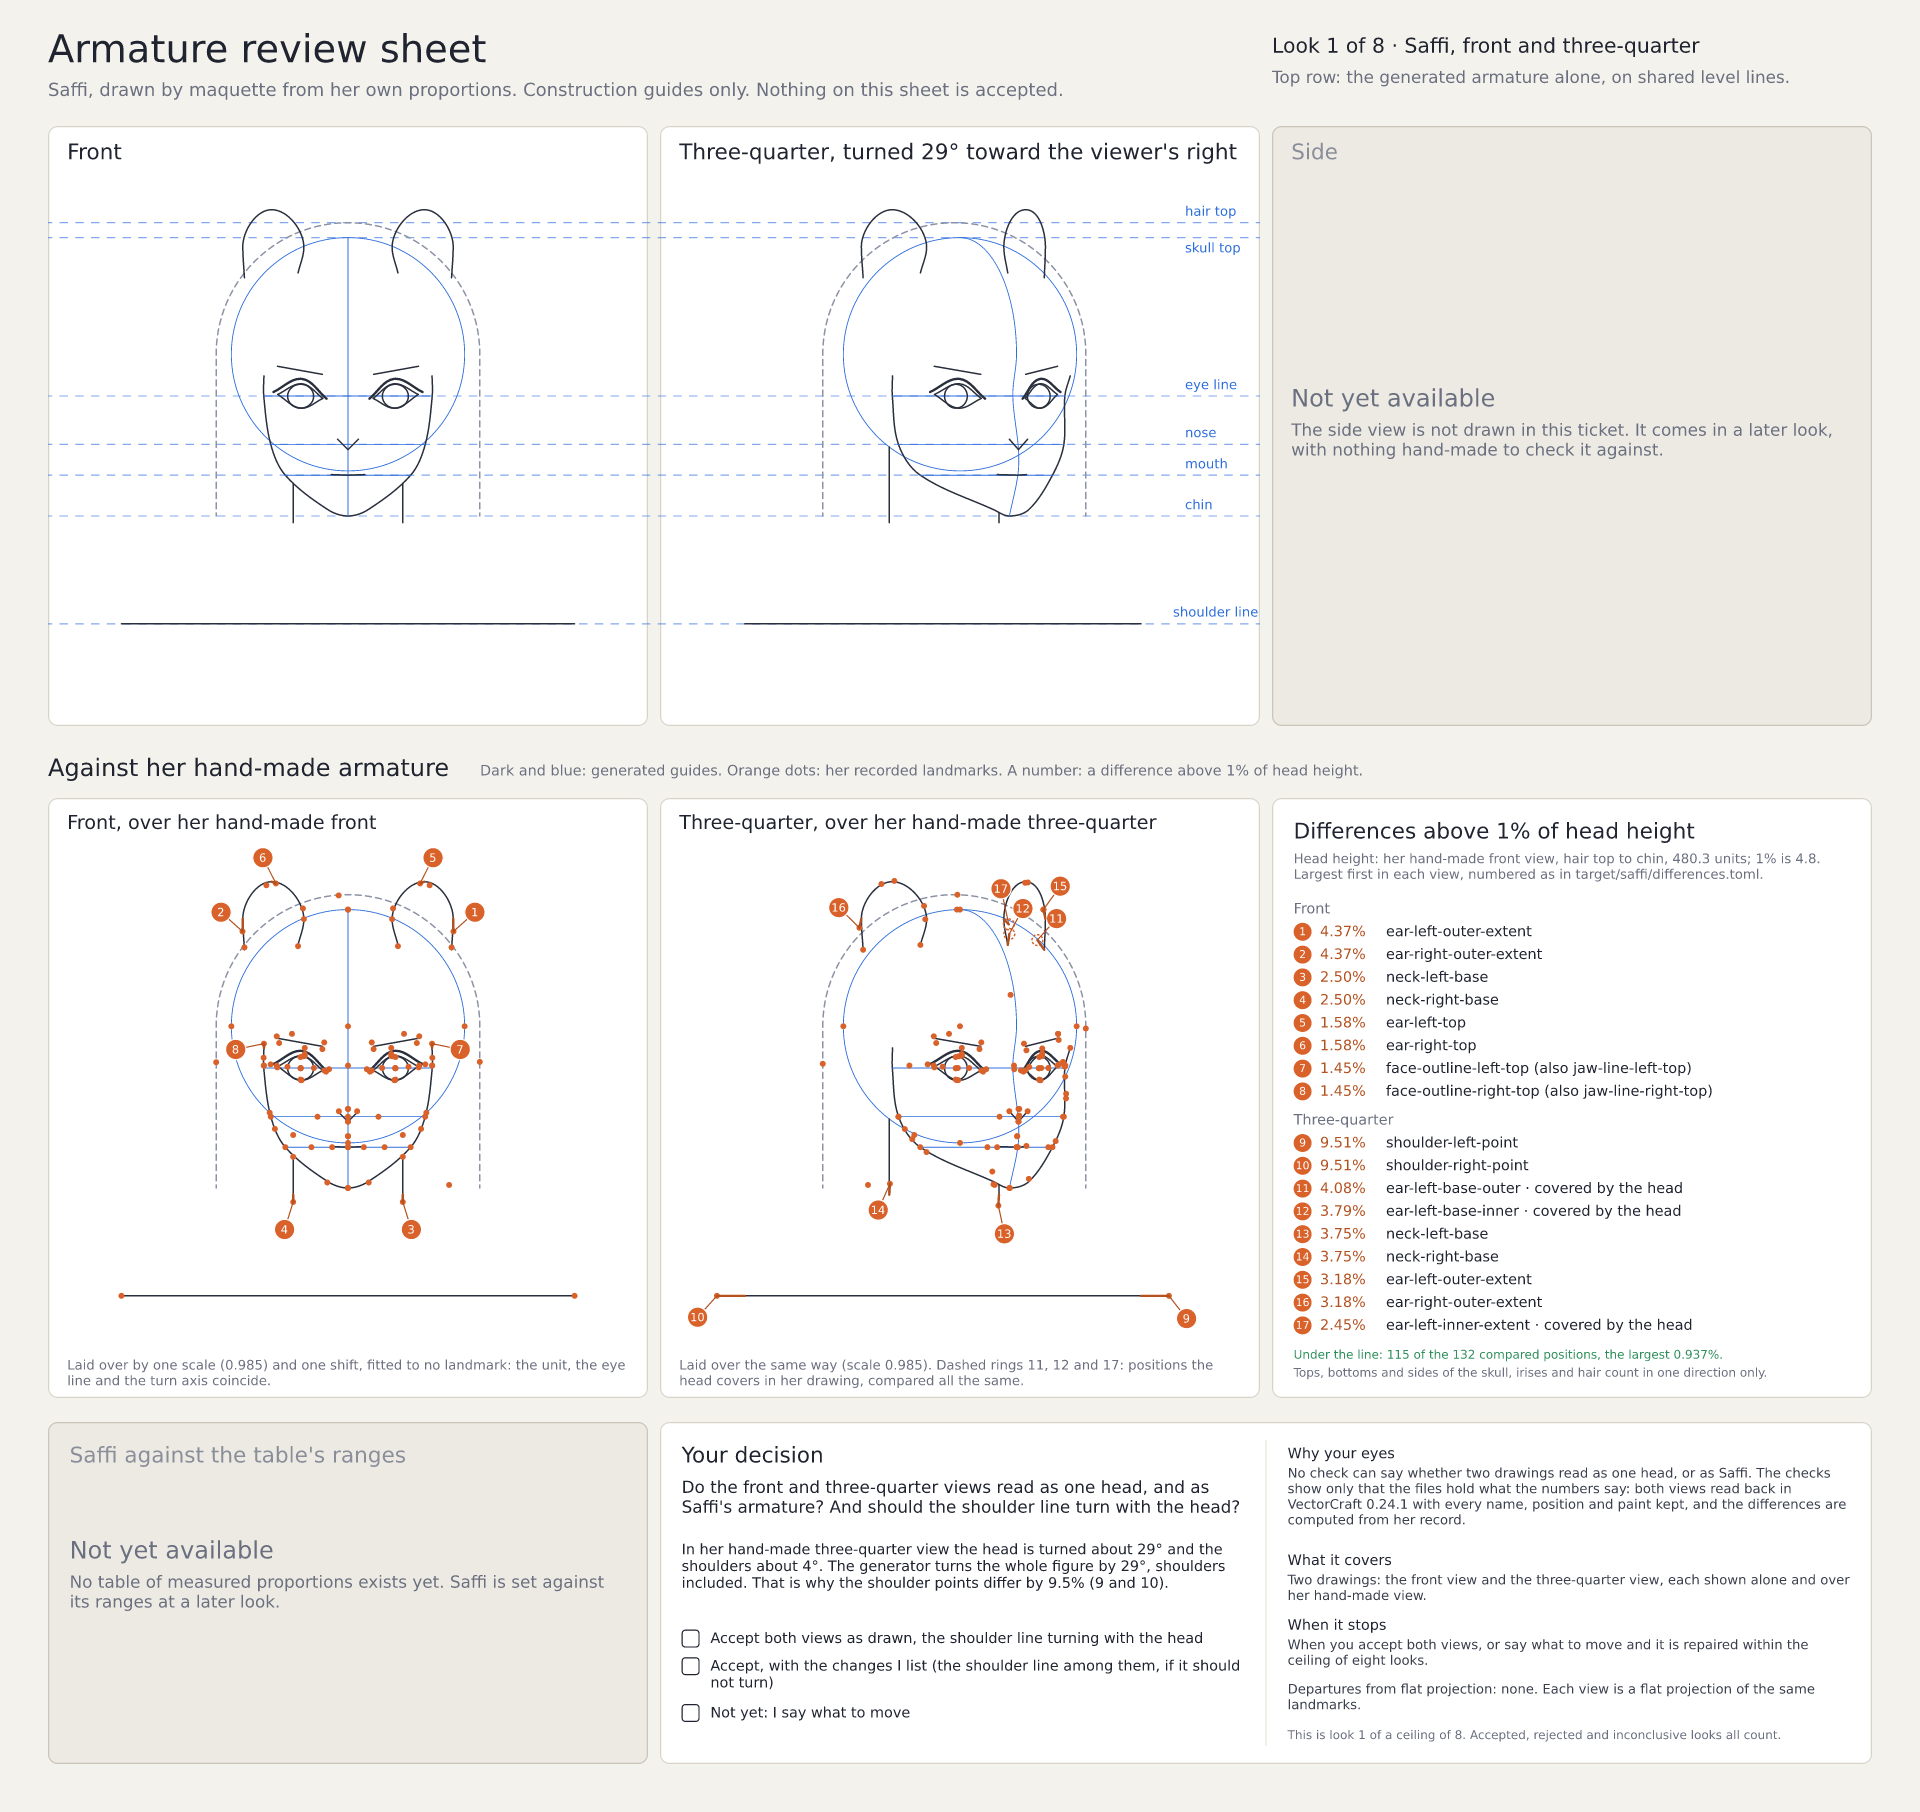
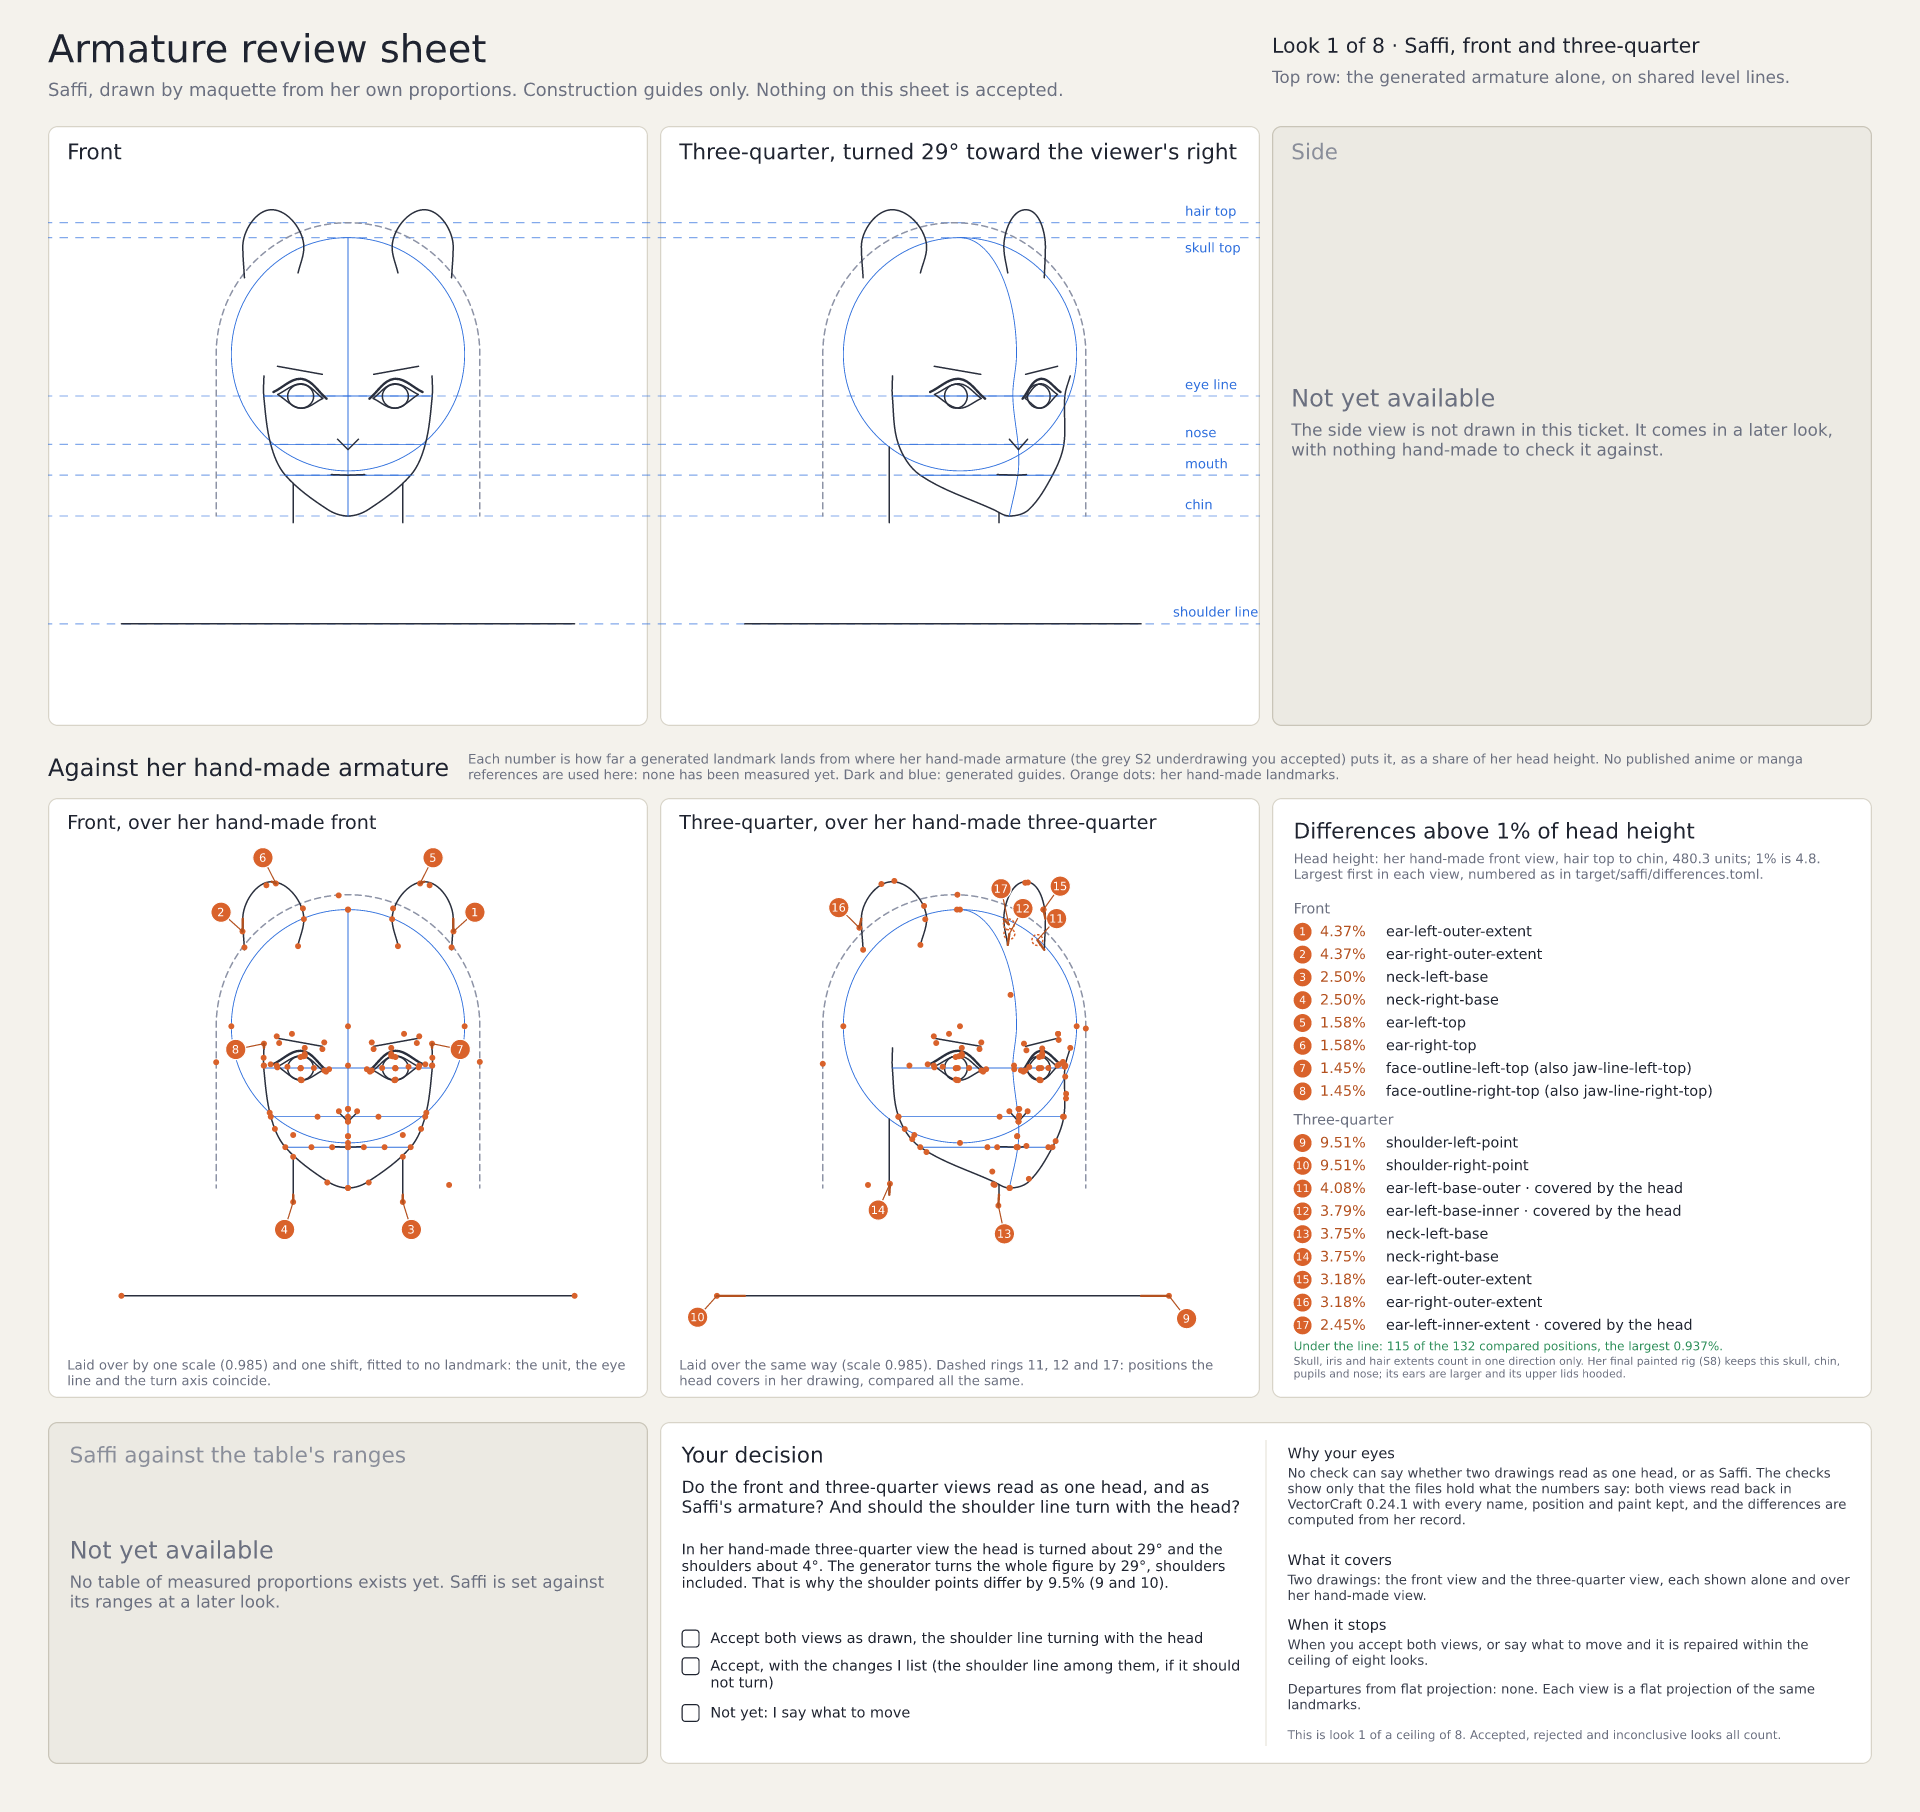
Say on the sheet what the differences measure
The legend now says each number is the distance from her hand-made S2
armature and that no published reference is used yet. The differences
card notes how her final painted rig differs. The digests of the
landmark files are brought up to date after the review fixes.

Changed region(s): [[0.25, 0.4018, 0.7188, 0.4327], [0.6562, 0.7417, 0.9062, 0.7726]]

diff --git a/design/look-1-saffi-front-three-quarter/README.md b/design/look-1-saffi-front-three-quarter/README.md
@@ -17,13 +17,13 @@ Every drawing on the sheet is a file the program wrote, imported into FigCraft u
 | The list of differences, and the footnotes | `target/saffi/differences.toml` |
 | The level lines of the top row | the heights in `target/saffi/front.landmarks.toml`: hair top 111.202, skull top 135.977, eye line 400, nose level 480.694, mouth level 531.97, chin 600, shoulder line 779.72 |
 
-The files were written from `data/saffi/proportions.toml` and `data/saffi/hand-made-views.toml` at the default placement. Their SHA-256 digests when the sheet was composed on 2026-11-16:
+The files were written from `data/saffi/proportions.toml` and `data/saffi/hand-made-views.toml` at the default placement. Their SHA-256 digests on 2026-11-16, after the review fixes (which changed only the landmark files' field names and the zero of depth, not a drawn byte):
 
 ```
 af5a4fcf6d838ce82bc36bce4d142bdb19e69a46bdba9c634da874e02b318857  front.svg
-e9fedc58d44e93a71d082f162b6e83335692e5cf344a3412bcac2554b8715069  front.landmarks.toml
+6573be20af8b185a8a21812e22110c0ef6abc33ec90e267b258b35a8932969c9  front.landmarks.toml
 102cad3030a2e31e5cf784f1266666ad97e8cab1f93b0159878ca99dfd181572  three-quarter.svg
-1abe17279bae6d2bd0ec95993cf9b665b8f2448f49960c7eb61de59d817e91dc  three-quarter.landmarks.toml
+4ce905195f24979c5ecf3de57239194afc0d045d20c9106e668d79fa965f71c8  three-quarter.landmarks.toml
 becdd50f517d196a8c9fa1aa596feb6debc7106a72486263edca342f916bfc39  differences.toml
 2ab86ede121226d6eb95f3e4d7ff1e82ef86e16dbea540daa100034123a6a62f  front.hand-made-overlay.svg
 3edee73385e73980e8930e5a7e3d6d4396bf4bc98f3fbf14703c9673fb9f9bcf  three-quarter.hand-made-overlay.svg
@@ -35,3 +35,7 @@ becdd50f517d196a8c9fa1aa596feb6debc7106a72486263edca342f916bfc39  differences.to
 2. In FigCraft, open `armature-review-sheet.figcraft`. Each imported drawing is a frame named after its file. Replace it by importing the new file (`file.import` with the same `x` and `y`, then `node.reparent` into the sheet frame): the front view at 80, 260 and 80, 1380, the three-quarter view at 1100, 260 and 1100, 1380, each overlay at the same place as the view it lies over. The sheet frame is at 0, 0.
 3. If any height in a landmark file changed, move the level lines to 260 plus that height. If the differences changed, retype the list from the differences file.
 4. Export the sheet frame at 1920 pixels wide and at scale 1.
+
+## Revised once before the look
+
+On 2026-11-16, before the sheet was put to Jon, two notes were added because the first version did not say plainly what the percentages measure: the legend above the comparison row now says each number is the distance from her hand-made S2 armature and that no published reference is used yet, and the foot of the differences card notes that her final painted rig (S8) keeps the same skull, chin, pupils and nose but has larger ears and hooded upper lids. No drawing moved.
